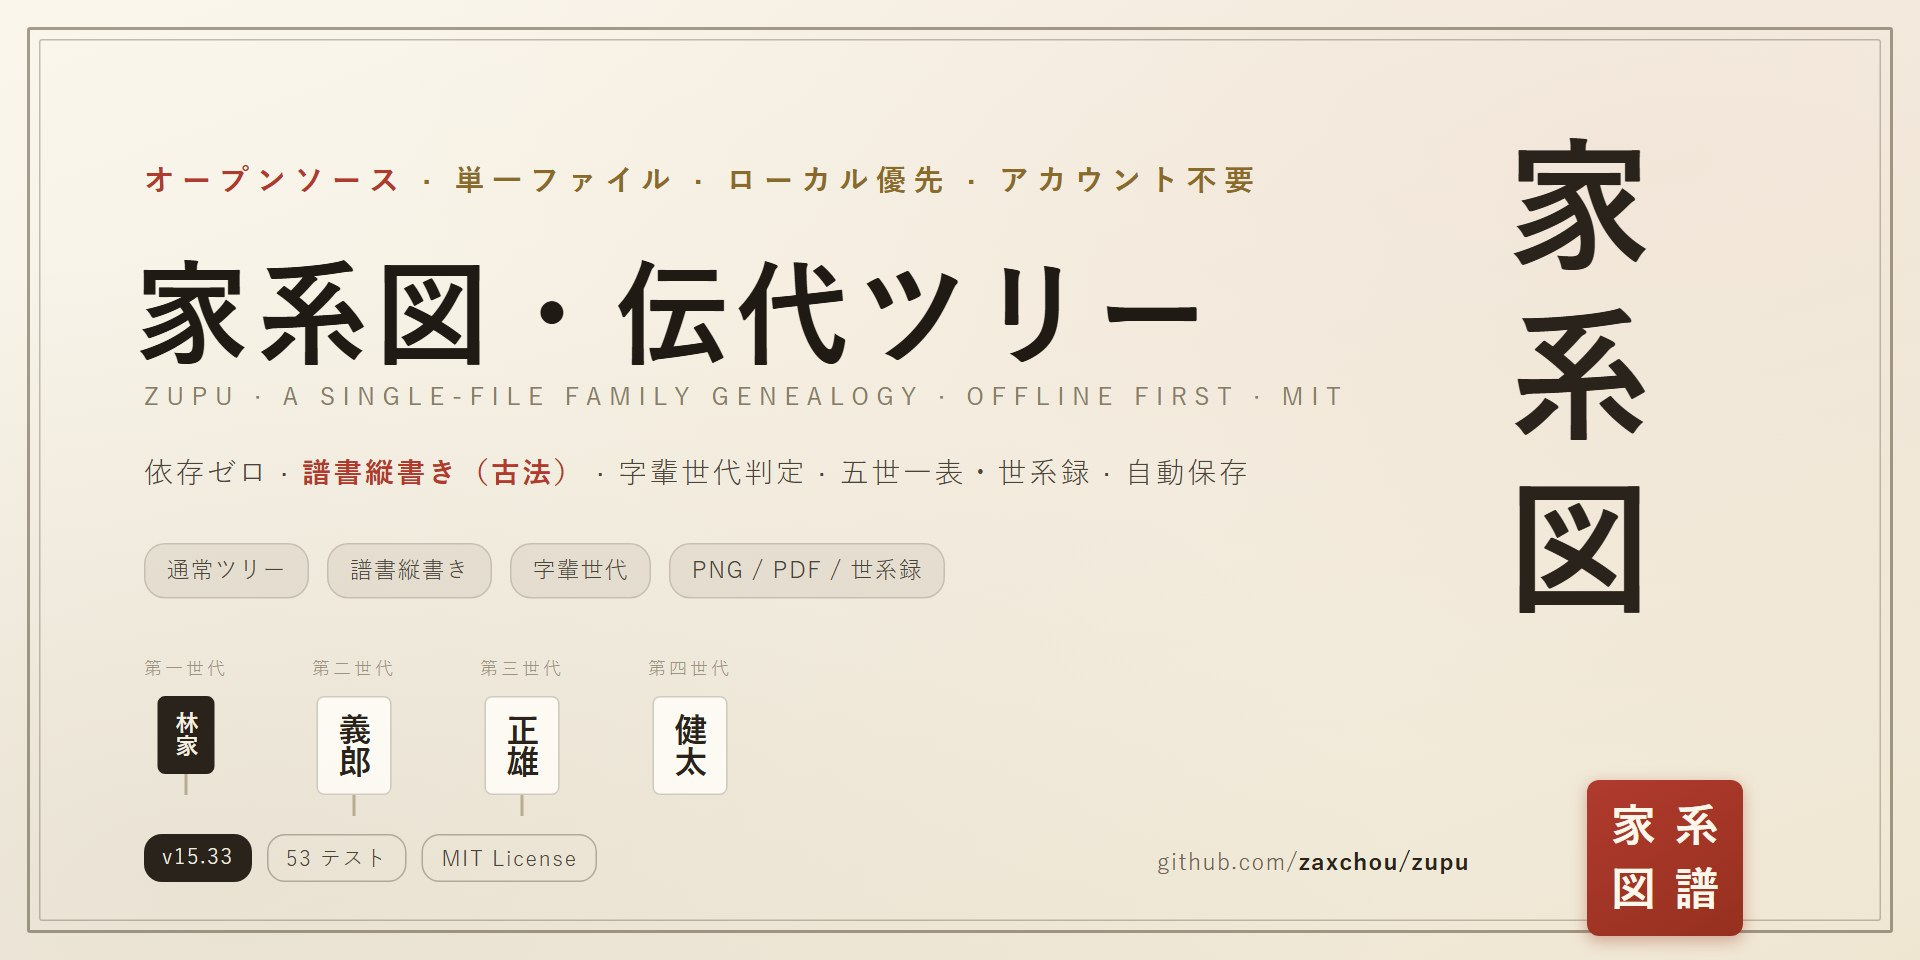
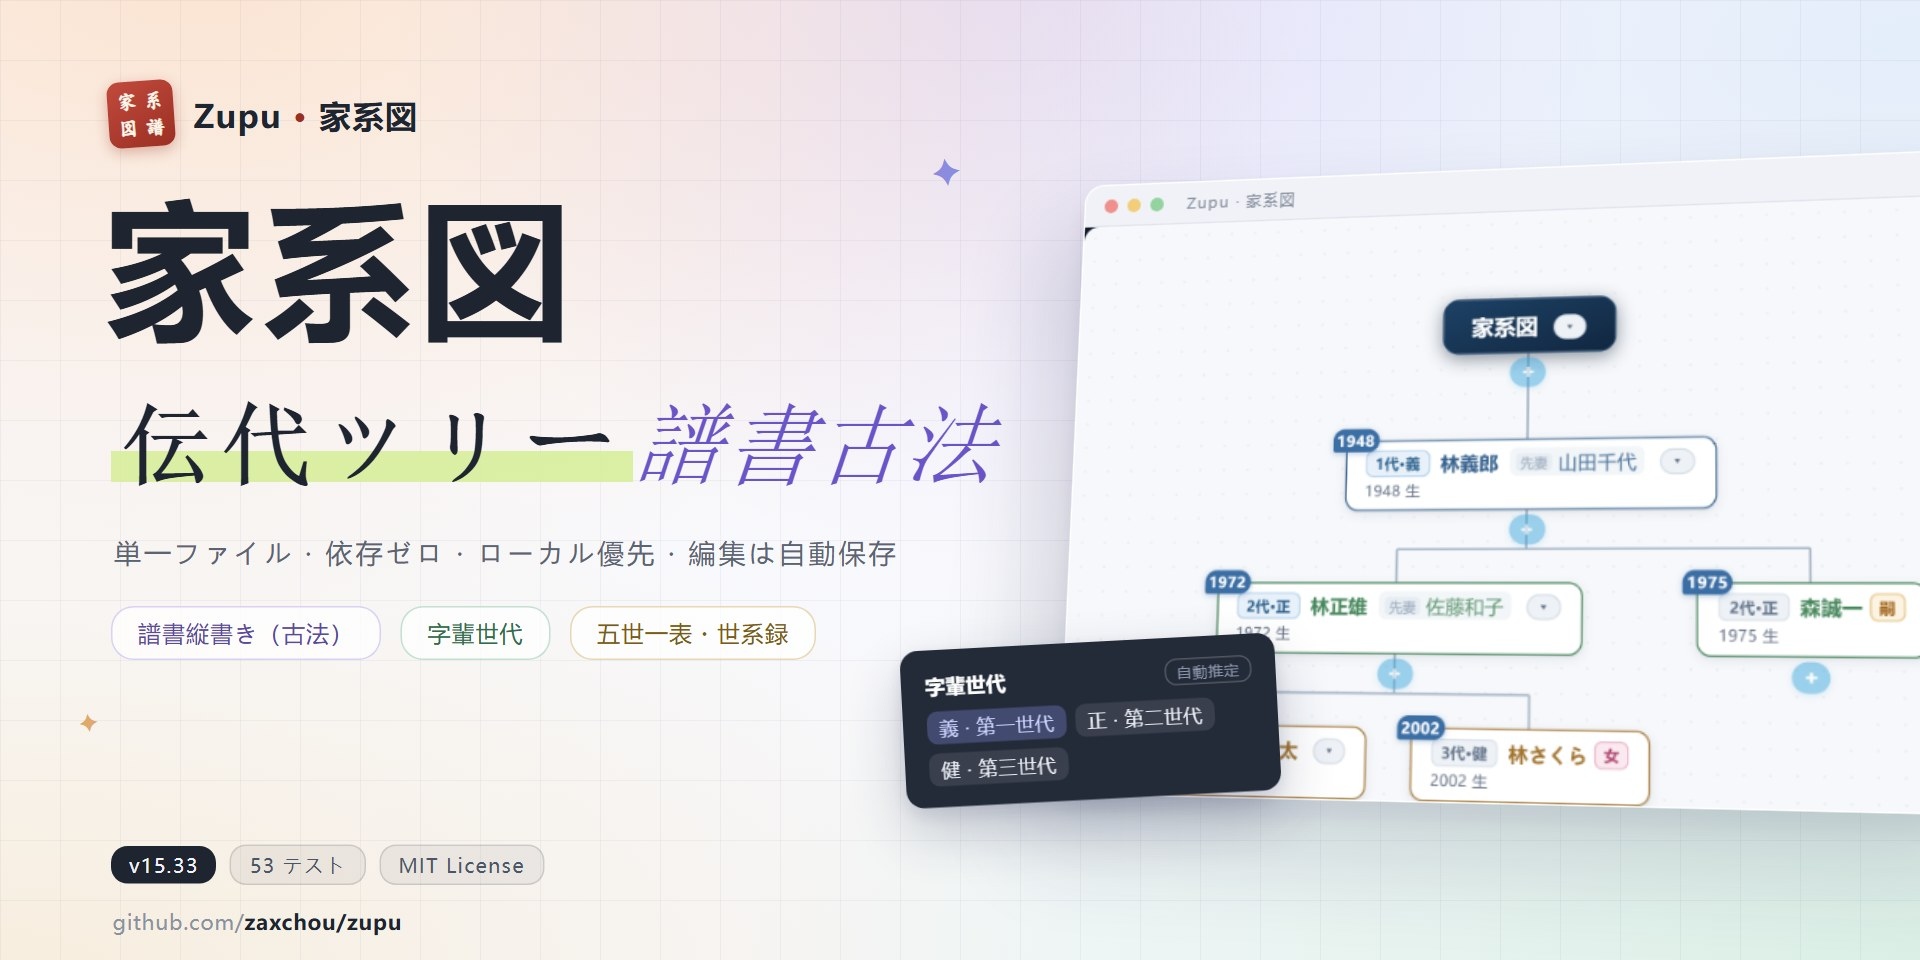
四语言封面统一升级为 v4 风格：各自语言的界面截图 + 本地化排印（3D 窗口卡 + 浮动特性卡 + pastel 光晕）

diff --git a/docs/_cover-ja-v4.html b/docs/_cover-ja-v4.html
@@ -1,5 +1,5 @@
 <!doctype html>
-<html lang="zh">
+<html lang="ja">
 <head>
 <meta charset="utf-8">
 <style>
@@ -81,42 +81,43 @@
   /* 点缀 */
   .spark{position:absolute;left:620px;top:96px;color:#8b8ce0;font-size:26px;transform:rotate(-8deg)}
   .spark.s2{left:52px;top:470px;font-size:17px;color:#e0a86a}
+  .t2 .serif,.t2 .accent{font-size:60px}
 </style>
 </head>
 <body>
   <div class="grid"></div>
 
   <div class="brand">
-    <div class="seal"><span>传</span><span>家</span><span>之</span><span>谱</span></div>
-    <div class="name">Zupu <i>·</i> 家族族谱</div>
+    <div class="seal"><span>家</span><span>系</span><span>図</span><span>譜</span></div>
+    <div class="name">Zupu <i>·</i> 家系図</div>
   </div>
 
-  <div class="t1">家族族谱</div>
-  <div class="t2"><span class="serif">传代树</span><span class="accent">谱书古法</span></div>
-  <div class="sub">单文件 · 零依赖 · 本地优先 · 编辑即自动保存</div>
+  <div class="t1">家系図</div>
+  <div class="t2"><span class="serif">伝代ツリー</span><span class="accent">譜書古法</span></div>
+  <div class="sub">単一ファイル · 依存ゼロ · ローカル優先 · 編集は自動保存</div>
   <div class="chips">
-    <div class="chip p">谱书竖排（古法）</div>
-    <div class="chip m">字辈定代</div>
-    <div class="chip g">五世一表世系录</div>
+    <div class="chip p">譜書縦書き（古法）</div>
+    <div class="chip m">字輩世代</div>
+    <div class="chip g">五世一表・世系録</div>
   </div>
   <div class="spark">✦</div>
   <div class="spark s2">✦</div>
 
   <div class="scene">
     <div class="win">
-      <div class="bar"><i></i><i></i><i></i><s>Zupu · 传代树</s></div>
-      <img src="_shot-horiz.png" alt="">
+      <div class="bar"><i></i><i></i><i></i><s>Zupu · 家系図</s></div>
+      <img src="_shot-horiz-ja.png" alt="">
     </div>
   </div>
   <div class="mini">
-    <div class="mt"><b>字辈定代</b><span>自动推算</span></div>
+    <div class="mt"><b>字輩世代</b><span>自動推定</span></div>
     <div class="row">
-      <span class="z on">德 · 第1代</span><span class="z">承 · 第2代</span><span class="z">传 · 第3代</span>
+      <span class="z on">義 · 第一世代</span><span class="z">正 · 第二世代</span><span class="z">健 · 第三世代</span>
     </div>
   </div>
 
   <div class="foot">
-    <div class="tag">v15.33</div><div class="tag o">53 tests</div><div class="tag o">MIT License</div>
+    <div class="tag">v15.33</div><div class="tag o">53 テスト</div><div class="tag o">MIT License</div>
   </div>
   <div class="github">github.com/<b>zaxchou/zupu</b></div>
 </body>

diff --git a/docs/_cover-zh-Hant-v4.html b/docs/_cover-zh-Hant-v4.html
@@ -1,5 +1,5 @@
 <!doctype html>
-<html lang="zh">
+<html lang="zh-Hant">
 <head>
 <meta charset="utf-8">
 <style>
@@ -87,36 +87,36 @@
   <div class="grid"></div>
 
   <div class="brand">
-    <div class="seal"><span>传</span><span>家</span><span>之</span><span>谱</span></div>
-    <div class="name">Zupu <i>·</i> 家族族谱</div>
+    <div class="seal"><span>傳</span><span>家</span><span>之</span><span>譜</span></div>
+    <div class="name">Zupu <i>·</i> 家族族譜</div>
   </div>
 
-  <div class="t1">家族族谱</div>
-  <div class="t2"><span class="serif">传代树</span><span class="accent">谱书古法</span></div>
-  <div class="sub">单文件 · 零依赖 · 本地优先 · 编辑即自动保存</div>
+  <div class="t1">家族族譜</div>
+  <div class="t2"><span class="serif">傳代樹</span><span class="accent">譜書古法</span></div>
+  <div class="sub">單一檔案 · 零依賴 · 本地優先 · 編輯即自動儲存</div>
   <div class="chips">
-    <div class="chip p">谱书竖排（古法）</div>
-    <div class="chip m">字辈定代</div>
-    <div class="chip g">五世一表世系录</div>
+    <div class="chip p">譜書豎排（古法）</div>
+    <div class="chip m">字輩定代</div>
+    <div class="chip g">五世一表世系錄</div>
   </div>
   <div class="spark">✦</div>
   <div class="spark s2">✦</div>
 
   <div class="scene">
     <div class="win">
-      <div class="bar"><i></i><i></i><i></i><s>Zupu · 传代树</s></div>
-      <img src="_shot-horiz.png" alt="">
+      <div class="bar"><i></i><i></i><i></i><s>Zupu · 傳代樹</s></div>
+      <img src="_shot-horiz-hant.png" alt="">
     </div>
   </div>
   <div class="mini">
-    <div class="mt"><b>字辈定代</b><span>自动推算</span></div>
+    <div class="mt"><b>字輩定代</b><span>自動推算</span></div>
     <div class="row">
-      <span class="z on">德 · 第1代</span><span class="z">承 · 第2代</span><span class="z">传 · 第3代</span>
+      <span class="z on">德 · 第1代</span><span class="z">承 · 第2代</span><span class="z">傳 · 第3代</span>
     </div>
   </div>
 
   <div class="foot">
-    <div class="tag">v15.33</div><div class="tag o">53 tests</div><div class="tag o">MIT License</div>
+    <div class="tag">v15.33</div><div class="tag o">53 測試用例</div><div class="tag o">MIT License</div>
   </div>
   <div class="github">github.com/<b>zaxchou/zupu</b></div>
 </body>

diff --git a/docs/_cover-en-v4.html b/docs/_cover-en-v4.html
@@ -1,5 +1,5 @@
 <!doctype html>
-<html lang="zh">
+<html lang="en">
 <head>
 <meta charset="utf-8">
 <style>
@@ -81,37 +81,38 @@
   /* 点缀 */
   .spark{position:absolute;left:620px;top:96px;color:#8b8ce0;font-size:26px;transform:rotate(-8deg)}
   .spark.s2{left:52px;top:470px;font-size:17px;color:#e0a86a}
+  .t2 .serif,.t2 .accent{font-size:54px;letter-spacing:1px}
 </style>
 </head>
 <body>
   <div class="grid"></div>
 
   <div class="brand">
-    <div class="seal"><span>传</span><span>家</span><span>之</span><span>谱</span></div>
-    <div class="name">Zupu <i>·</i> 家族族谱</div>
+    <div class="seal"><span>Z</span><span>U</span><span>P</span><span>U</span></div>
+    <div class="name">Zupu <i>·</i> Family Tree</div>
   </div>
 
-  <div class="t1">家族族谱</div>
-  <div class="t2"><span class="serif">传代树</span><span class="accent">谱书古法</span></div>
-  <div class="sub">单文件 · 零依赖 · 本地优先 · 编辑即自动保存</div>
+  <div class="t1">Family Tree</div>
+  <div class="t2"><span class="serif">Generational Tree</span></div>
+  <div class="sub">Single file · Zero dependencies · Local-first · Auto-save</div>
   <div class="chips">
-    <div class="chip p">谱书竖排（古法）</div>
-    <div class="chip m">字辈定代</div>
-    <div class="chip g">五世一表世系录</div>
+    <div class="chip p">Vertical book layout</div>
+    <div class="chip m">Zibei generations</div>
+    <div class="chip g">Five-gen tables</div>
   </div>
   <div class="spark">✦</div>
   <div class="spark s2">✦</div>
 
   <div class="scene">
     <div class="win">
-      <div class="bar"><i></i><i></i><i></i><s>Zupu · 传代树</s></div>
-      <img src="_shot-horiz.png" alt="">
+      <div class="bar"><i></i><i></i><i></i><s>Zupu · Family Tree</s></div>
+      <img src="_shot-horiz-en.png" alt="">
     </div>
   </div>
   <div class="mini">
-    <div class="mt"><b>字辈定代</b><span>自动推算</span></div>
+    <div class="mt"><b>Zibei generations</b><span>auto-inferred</span></div>
     <div class="row">
-      <span class="z on">德 · 第1代</span><span class="z">承 · 第2代</span><span class="z">传 · 第3代</span>
+      <span class="z on">Gen 1 · Arthur</span><span class="z">Gen 2 · James</span><span class="z">Gen 3 · Robert</span>
     </div>
   </div>
 
